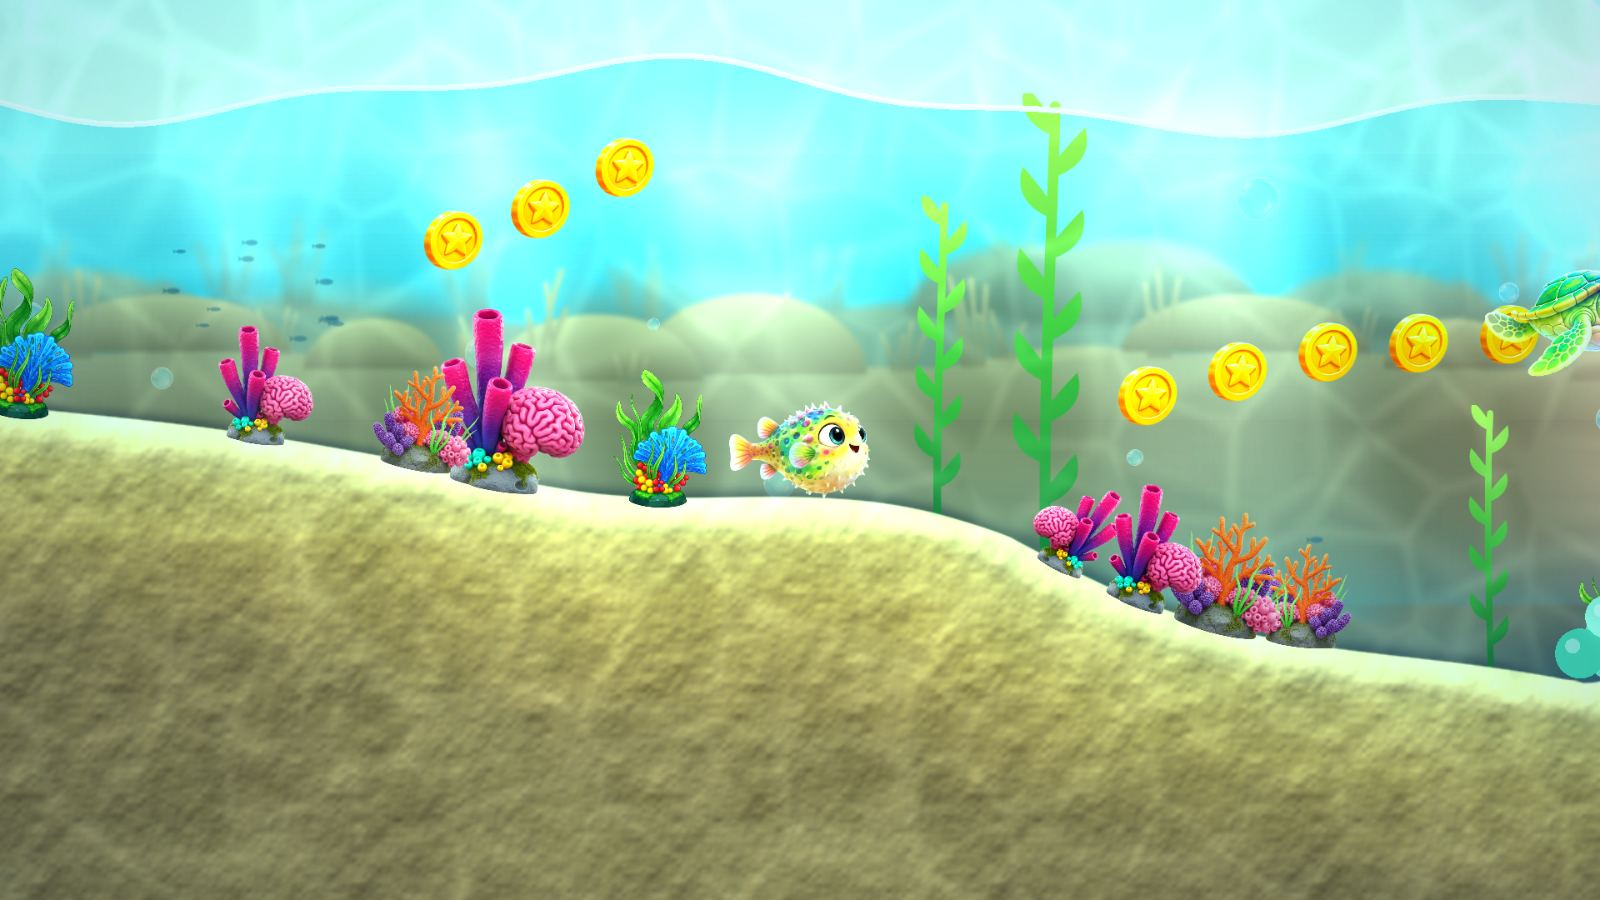
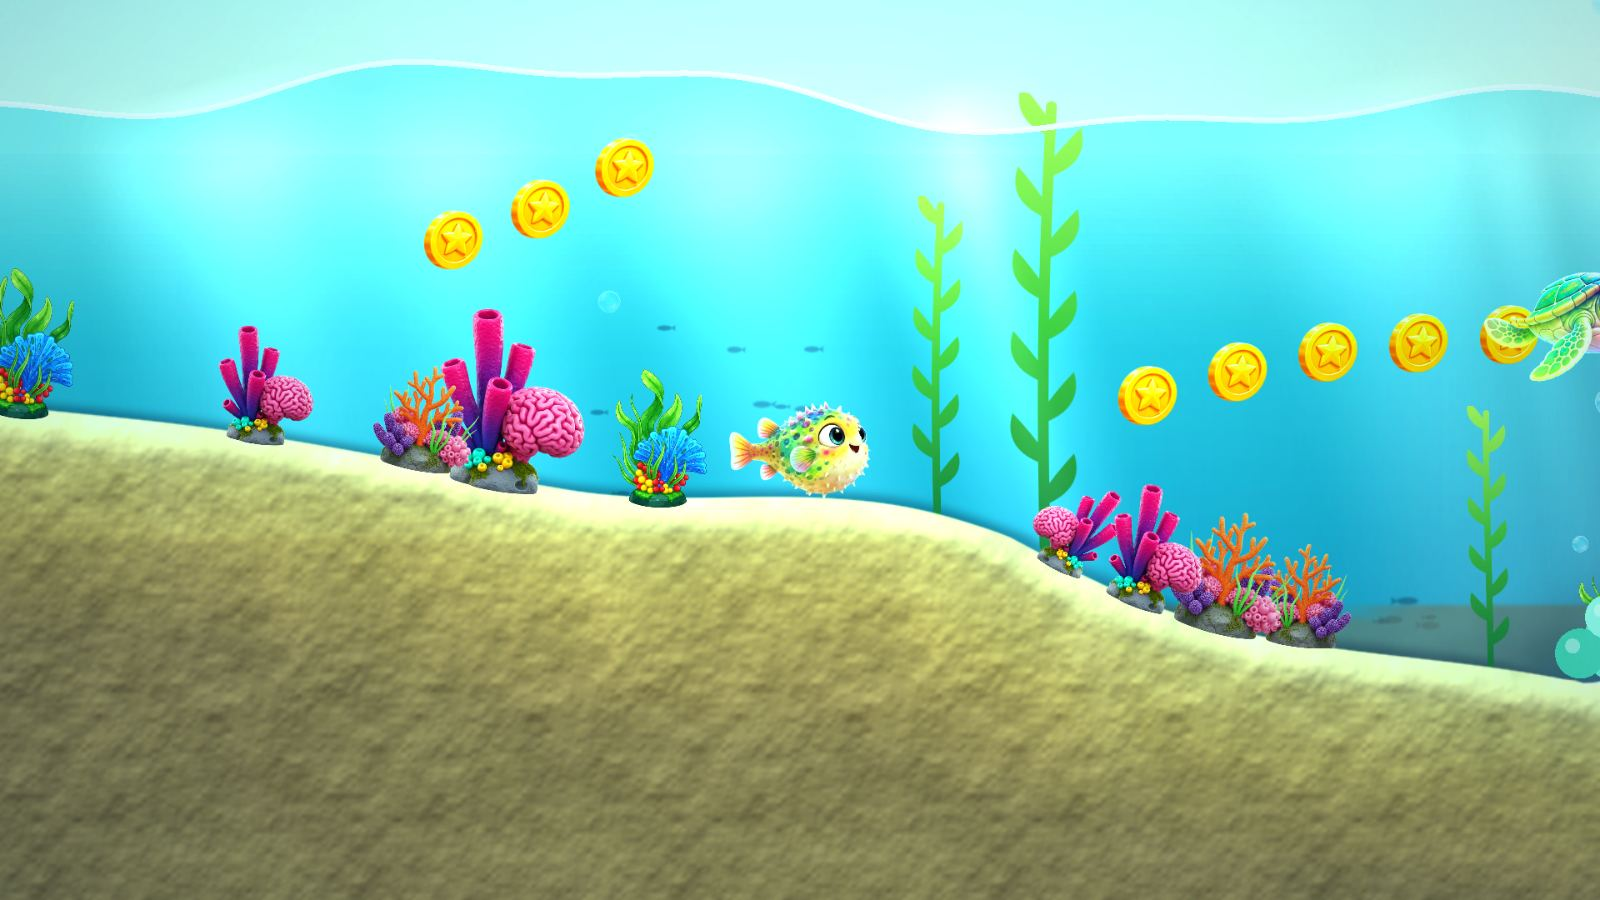
Calmer water light: caustics and drawn background silhouettes off, smooth grade without colour steps, slower shafts

diff --git a/game/fx/WaterLight.js b/game/fx/WaterLight.js
@@ -15,7 +15,8 @@ export const WATER_LIGHT = {
     shafts: 1.8,          // strength of the light shafts (0 = off)
     shaftCount: 7,        // broad shafts behind the play plane
     shaftNear: 3,         // thin shafts in front of the play plane (kept faint, never hide hazards)
-    caustics: 0.07,       // strength of the caustic shimmer (0 = off); open water shows only a hint
+    caustics: 0,          // caustic shimmer (0 = off): off until it can be projected on rock and sand only;
+                          // a screen-wide pattern read as a net over the water (user feedback 2026-11-14)
     causticScale: 2.6,    // world size of the caustic tile relative to its 256 px texture
     causticFade: 1500,    // caustics fade faster than the shafts: a shallow-water effect
     grade: 1,             // depth colour grade on the camera (0 = off)
@@ -88,7 +89,7 @@ export default class WaterLight {
             s.x = s.baseX + Math.sin(t * 0.21 + s.phase) * 60 - ((cam.scrollX * s.drift) % (W + 400));
             if (s.x < -260) s.x += W + 400; else if (s.x > W + 260) s.x -= W + 400;
             s.y = Math.max(-40, -cam.scrollY - 30);   // shafts start at the water surface
-            const flicker = 0.65 + 0.35 * Math.sin(t * 0.55 + s.phase) * Math.sin(t * 0.23 + s.phase * 1.7);
+            const flicker = 0.85 + 0.15 * Math.sin(t * 0.18 + s.phase);   // slow breathing, never a flicker
             s.setAlpha(WATER_LIGHT.shafts * s.base * flicker * light * (1 - above));
         }
 
@@ -104,8 +105,11 @@ export default class WaterLight {
         }
 
         if (this.grade) {
-            const q = Math.round(light * 40) / 40;   // only rebuild the matrix when the light changes visibly
-            if (q !== this.lastLight) {
+            // Ease the light so camera bobbing never pumps the colours, and update in tiny
+            // steps (no visible jumps between quantised levels).
+            this.smooth = this.smooth === undefined ? light : this.smooth + (light - this.smooth) * 0.03;
+            const q = this.smooth;
+            if (Math.abs(q - this.lastLight) > 0.002) {
                 this.lastLight = q;
                 const m = gradeMatrix(q, WATER_LIGHT.gradeSaturation * WATER_LIGHT.grade, WATER_LIGHT.gradeAbsorb * WATER_LIGHT.grade, WATER_LIGHT.gradeExposure * WATER_LIGHT.grade);
                 // Phaser's ColorMatrix keeps offsets in 0..255.

diff --git a/game/level/backLayersTable.js b/game/level/backLayersTable.js
@@ -9,9 +9,11 @@
 //   depth    Phaser depth (behind the backdrop schools at -16 and light shafts at -12)
 //   strength 0 switches a layer off
 export const BACK_LAYERS = [
-    { id: 'haze', scroll: 0.08, fog: 0.74, height: 0.42, rise: 900, density: 0.45, blur: 7, depth: -21, strength: 1 },
-    { id: 'far', scroll: 0.25, fog: 0.5, height: 0.36, rise: 450, density: 0.75, blur: 4, depth: -19, strength: 1 },
-    { id: 'back', scroll: 0.45, fog: 0.3, height: 0.3, rise: 120, density: 1, blur: 2, depth: -17.5, strength: 1 }
+    // Off (strength 0) until painted, 2.5D layer art replaces the drawn primitive silhouettes,
+    // which read as flat solids with cut-offs (user feedback 2026-11-14).
+    { id: 'haze', scroll: 0.08, fog: 0.74, height: 0.42, rise: 900, density: 0.45, blur: 7, depth: -21, strength: 0 },
+    { id: 'far', scroll: 0.25, fog: 0.5, height: 0.36, rise: 450, density: 0.75, blur: 4, depth: -19, strength: 0 },
+    { id: 'back', scroll: 0.45, fog: 0.3, height: 0.3, rise: 120, density: 1, blur: 2, depth: -17.5, strength: 0 }
 ];
 
 // Silhouette kinds (big soft shapes only — the background has no micro detail, spec 10.10b).
